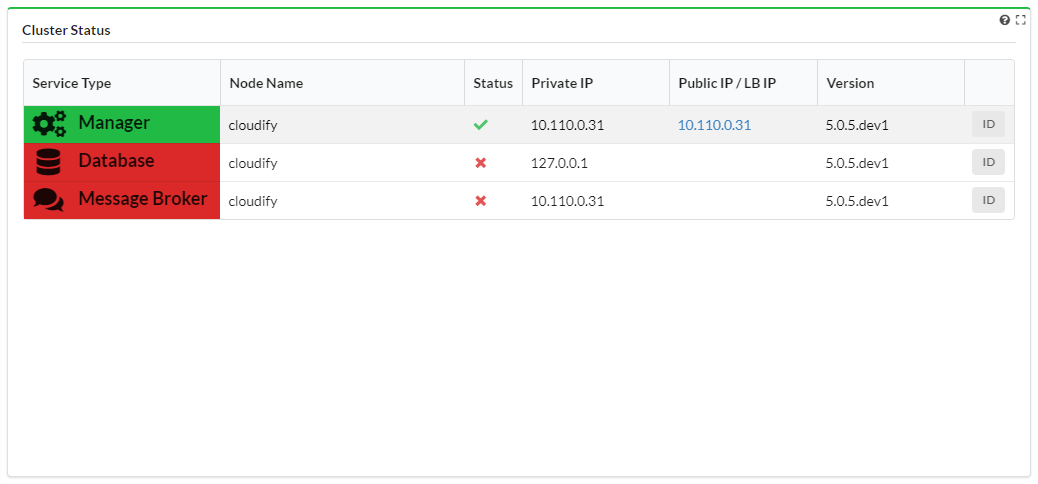
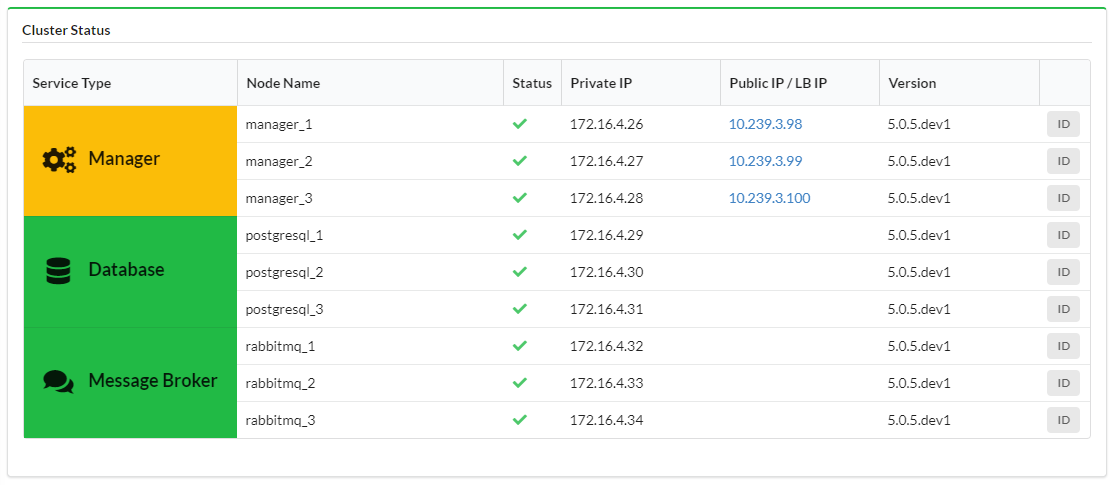
Update Spire Manager widget to better handle manager statuses Updated Spire Manager and Cluster Status widgets thumbnails Improved default values for Cluster Services components

diff --git a/widgets/managers/src/ManagersTable.js b/widgets/managers/src/ManagersTable.js
@@ -58,6 +58,23 @@ export default class ManagersTable extends React.Component {
         );
     }
 
+    componentDidUpdate(prevProps) {
+        const newManagers = _.get(this.props, 'data.items', []);
+        const oldManagers = _.get(prevProps, 'data.items', []);
+
+        if (!_.isEqual(oldManagers, newManagers)) {
+            const managerIds = _.map(newManagers, 'id');
+
+            const { status } = this.state;
+            const currentStatus = _.pick(status, managerIds);
+            const emptyStatusForAllManagers = _(newManagers)
+                .mapKeys('id')
+                .mapValues(() => ({ isFetching: false, status: {} }))
+                .value();
+            this.setState({ status: { ...emptyStatusForAllManagers, ...currentStatus } });
+        }
+    }
+
     componentWillUnmount() {
         this.props.toolbox.getEventBus().off('managers:refresh', this.refreshData);
     }
@@ -186,7 +203,10 @@ export default class ManagersTable extends React.Component {
 
                     {_.map(this.props.data.items, manager => {
                         const inSelectedManagers = _.includes(selectedManagers, manager.id);
-                        const { isFetching, status } = this.state.status[manager.id];
+                        const { isFetching, status } = _.get(this.state.status, manager.id, {
+                            isFetching: false,
+                            status: {}
+                        });
 
                         return (
                             <DataTable.Row

diff --git a/app/components/basic/cluster/ClusterServicesOverview.js b/app/components/basic/cluster/ClusterServicesOverview.js
@@ -57,7 +57,7 @@ ClusterServicesOverview.propTypes = {
 };
 
 ClusterServicesOverview.defaultProps = {
-    services: _.mapValues(clusterServiceEnum, () => ({ status: clusterServiceStatusEnum.Fail, is_external: false })),
+    services: _.mapValues(clusterServiceEnum, () => ({ status: clusterServiceStatusEnum.Unknown, is_external: false })),
     clickable: false,
     isFetching: false,
     fetchingError: '',

diff --git a/app/components/status/SystemServicesStatus.js b/app/components/status/SystemServicesStatus.js
@@ -37,7 +37,7 @@ SystemServicesStatus.propTypes = {
 };
 
 SystemServicesStatus.defaultProps = {
-    services: _.mapValues(clusterServiceEnum, () => ({ status: clusterServiceStatusEnum.Fail, is_external: false })),
+    services: _.mapValues(clusterServiceEnum, () => ({ status: clusterServiceStatusEnum.Unknown, is_external: false })),
     isFetching: false,
     fetchingError: ''
 };
